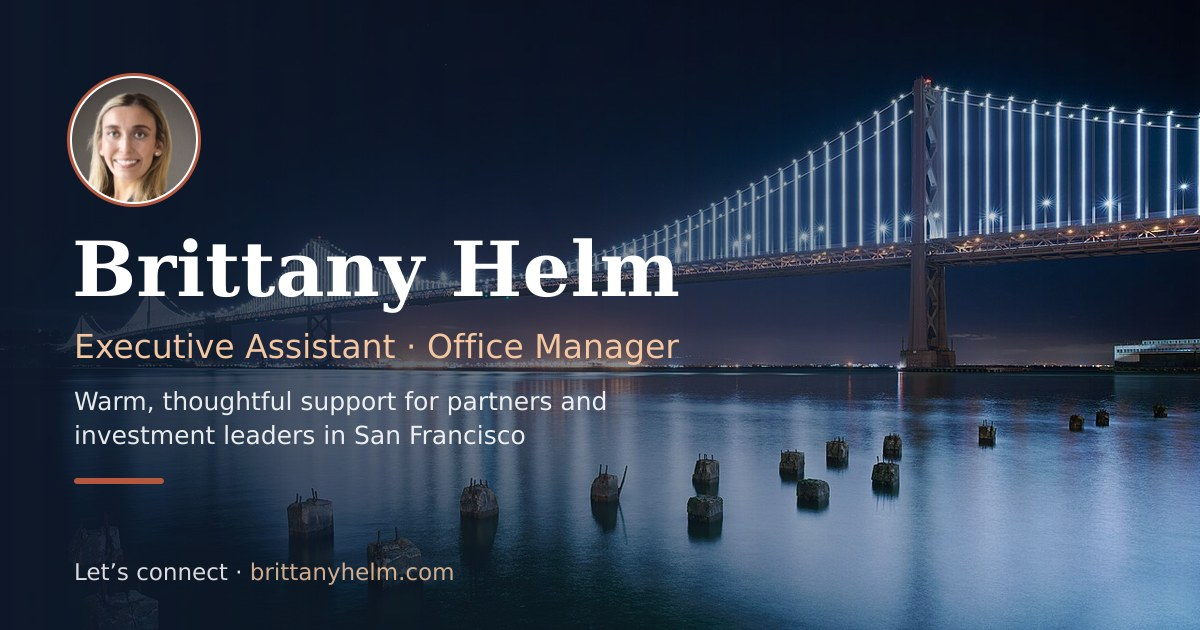
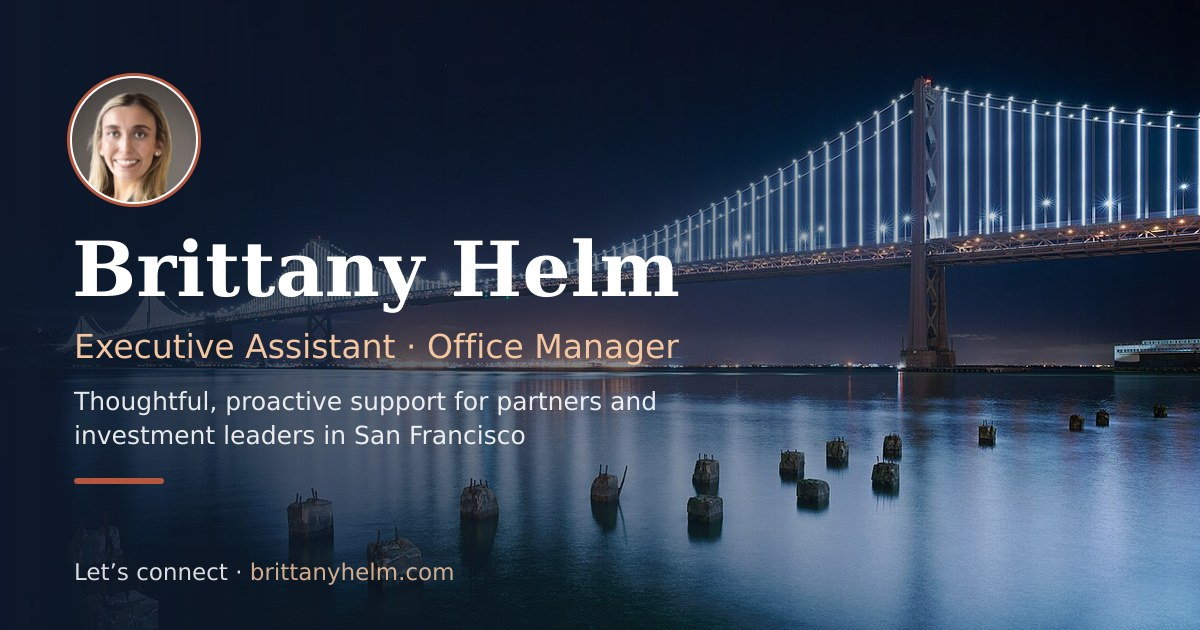
Adaptable stat and 'Thoughtful, proactive' hero/preview line
- Stat: 'Adaptable - thriving in small offices and global firms alike'
- Hero line and og-image: 'Thoughtful, proactive support for partners
  and investment leaders in San Francisco' (replaces 'Warm')

Claude-Session: https://claude.ai/code/session_01MBkUneGQ1Khq48mGjsU5PW

Changed region(s): [[0.0617, 0.6032, 0.555, 0.6635]]

diff --git a/src/resume.ts b/src/resume.ts
@@ -32,7 +32,7 @@ export const STATS = [
 	{ value: '8 years', label: 'of executive support and office management' },
 	{ value: 'People first', label: 'caring about executives’ wellbeing, families and lives' },
 	{ value: 'Custom AI', label: 'workflows designed and built for each partner' },
-	{ value: 'Any size', label: 'from small offices to global firms' },
+	{ value: 'Adaptable', label: 'thriving in small offices and global firms alike' },
 ];
 
 export const STRENGTHS = [
